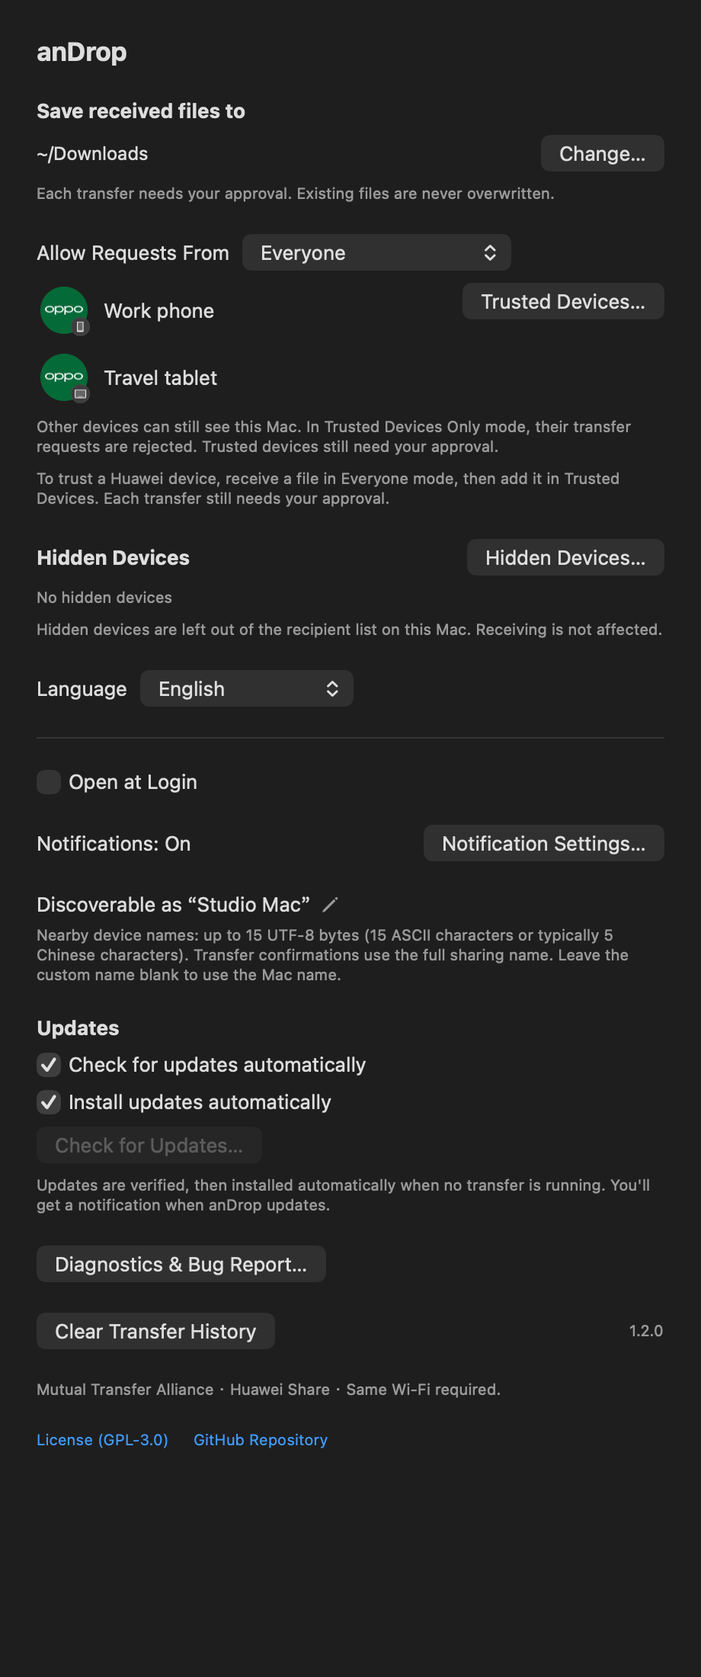
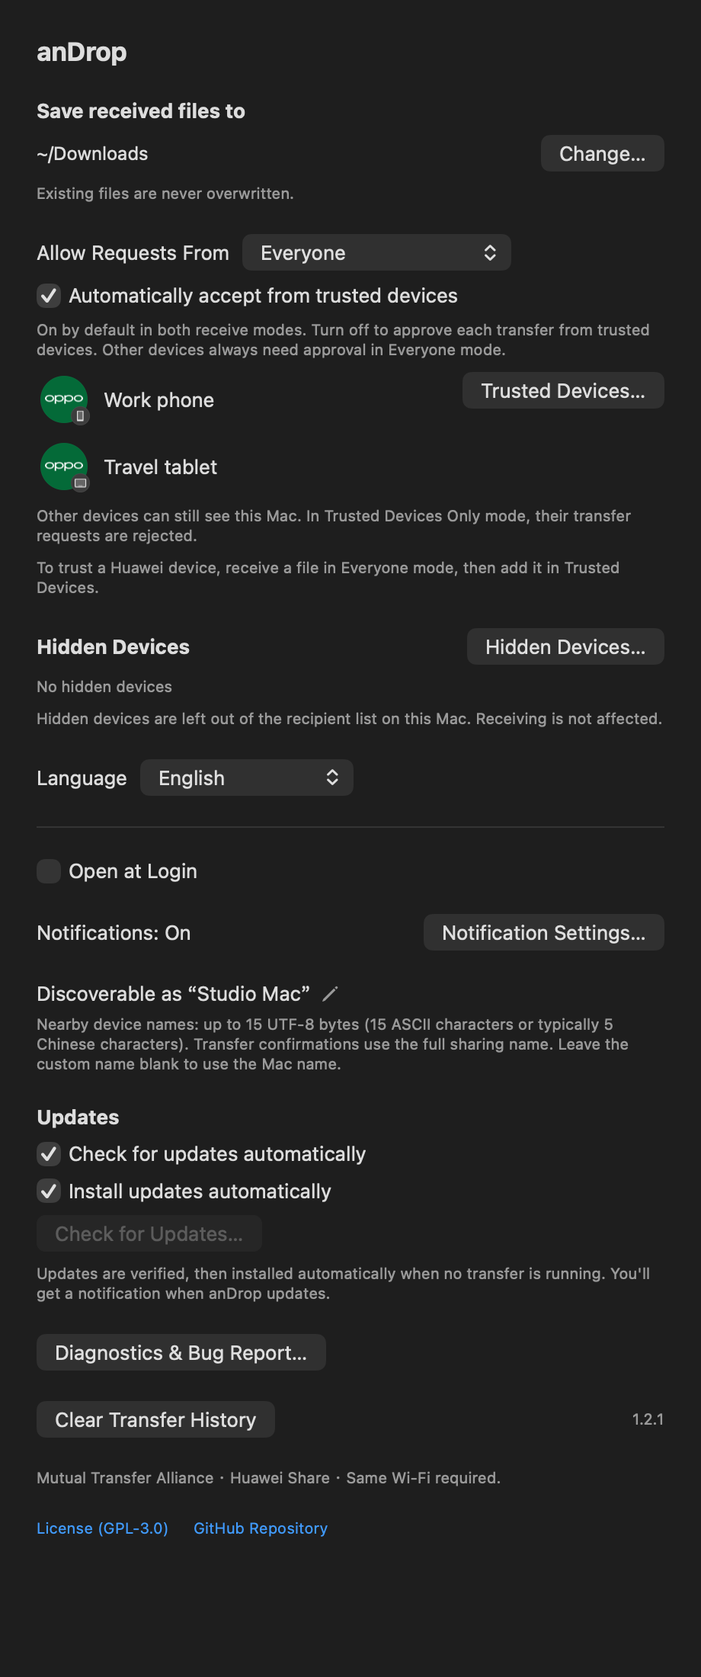
Release anDrop 1.2.1 with optional trusted-device auto acceptance

diff --git a/Sources/main.swift b/Sources/main.swift
@@ -91,6 +91,7 @@ final class AppModel: NSObject, ObservableObject, NSApplicationDelegate, @precon
 
     @Published private(set) var forgottenDeviceIdentifiers = Set(UserDefaults.standard.stringArray(forKey: "forgottenDeviceIdentifiers") ?? [])
     @Published private(set) var trustedOnly = UserDefaults.standard.bool(forKey: "trustedOnly")
+    @Published private(set) var autoAcceptTrusted = UserDefaults.standard.object(forKey: "autoAcceptTrusted") as? Bool ?? true
     @Published private(set) var trustedDevices: [RememberedDevice] = {
         guard let data = UserDefaults.standard.data(forKey: "trustedDevices") else { return [] }
         return (try? JSONDecoder().decode([RememberedDevice].self, from: data)) ?? []
@@ -276,6 +277,9 @@ final class AppModel: NSObject, ObservableObject, NSApplicationDelegate, @precon
     @objc func selectEveryone() { changeTrustedOnly(false) }
     func changeTrustedOnly(_ value: Bool) {
         trustedOnly = value; UserDefaults.standard.set(value, forKey: "trustedOnly"); configureEngine(); rebuildMenu()
+    }
+    func changeAutoAcceptTrusted(_ value: Bool) {
+        autoAcceptTrusted = value; UserDefaults.standard.set(value, forKey: "autoAcceptTrusted"); configureEngine()
     }
     var knownDevices: [RememberedDevice] {
         var seen = Set<String>()
@@ -564,7 +568,7 @@ final class AppModel: NSObject, ObservableObject, NSApplicationDelegate, @precon
         do { try input.write(contentsOf: bytes + Data([10])); return true }
         catch { self.error = L("Could not connect to the sharing service.", "无法连接到共享服务。"); return false }
     }
-    func configureEngine() { configuredName = sharingName; command(["command": "configure", "destination": destination, "name": configuredName, "language": appLanguage(), "trusted_only": trustedOnly, "trusted_ids": trustedDevices.map(\.id), "huawei_enabled": receiving]); command(["command": "enabled", "value": receiveSwitchIsOn]) }
+    func configureEngine() { configuredName = sharingName; command(["command": "configure", "destination": destination, "name": configuredName, "language": appLanguage(), "trusted_only": trustedOnly, "auto_accept_trusted": autoAcceptTrusted, "trusted_ids": trustedDevices.map(\.id), "huawei_enabled": receiving]); command(["command": "enabled", "value": receiveSwitchIsOn]) }
     private func consume(_ data: Data) {
         outputBuffer.append(data)
         if outputBuffer.count > 4_194_304 { outputBuffer.removeAll(); error = L("The sharing service returned an invalid response.", "共享服务返回了无效响应。"); return }
@@ -1302,12 +1306,15 @@ struct SettingsView: View {
                     HStack { Button(L("Accept", "接收")) { model.decide(incoming, accept: true) }; Button(L("Decline", "拒绝")) { model.decide(incoming, accept: false) } }
                 }
             }
-            VStack(alignment: .leading, spacing: 8) { Text(L("Save received files to", "接收文件保存位置")).font(.headline); HStack { Text(model.destination).font(.callout).lineLimit(1).truncationMode(.middle); Spacer(); Button(L("Change…", "更改…"), action: model.chooseDestination).disabled(model.busy) }; Text(L("Each transfer needs your approval. Existing files are never overwritten.", "每次接收都需确认。同名文件不会被覆盖。")).font(.caption).foregroundStyle(.secondary) }
+            VStack(alignment: .leading, spacing: 8) { Text(L("Save received files to", "接收文件保存位置")).font(.headline); HStack { Text(model.destination).font(.callout).lineLimit(1).truncationMode(.middle); Spacer(); Button(L("Change…", "更改…"), action: model.chooseDestination).disabled(model.busy) }; Text(L("Existing files are never overwritten.", "同名文件不会被覆盖。")).font(.caption).foregroundStyle(.secondary) }
             VStack(alignment: .leading, spacing: 8) {
                 Picker(L("Allow Requests From", "接收范围"), selection: Binding(get: { model.trustedOnly }, set: model.changeTrustedOnly)) {
                     Text(L("Trusted Devices Only", "仅限受信任的设备")).tag(true)
                     Text(L("Everyone", "所有人")).tag(false)
                 }
+                Toggle(L("Automatically accept from trusted devices", "自动接收受信任设备的文件"), isOn: Binding(get: { model.autoAcceptTrusted }, set: model.changeAutoAcceptTrusted))
+                Text(L("On by default in both receive modes. Turn off to approve each transfer from trusted devices. Other devices always need approval in Everyone mode.", "默认开启，适用于两种接收范围。关闭后，受信任设备的每次传输也需确认。在“所有人”模式下，其他设备始终需要确认。"))
+                    .font(.caption).foregroundStyle(.secondary)
                 HStack(alignment: .top, spacing: 12) {
                     VStack(alignment: .leading, spacing: 8) {
                         if model.trustedDevices.isEmpty {
@@ -1333,9 +1340,9 @@ struct SettingsView: View {
                     }.frame(maxWidth: .infinity, alignment: .leading)
                     Button(L("Trusted Devices…", "受信任的设备…")) { managingTrustedDevices = true }
                 }
-                Text(L("Other devices can still see this Mac. In Trusted Devices Only mode, their transfer requests are rejected. Trusted devices still need your approval.", "未受信任的设备仍可发现此 Mac；选择“仅限受信任的设备”后，其传输请求会被拒绝。受信任的设备每次传输仍需你确认。"))
+                Text(L("Other devices can still see this Mac. In Trusted Devices Only mode, their transfer requests are rejected.", "未受信任的设备仍可发现此 Mac；选择“仅限受信任的设备”后，其传输请求会被拒绝。"))
                     .font(.caption).foregroundStyle(.secondary).fixedSize(horizontal: false, vertical: true)
-                Text(L("To trust a Huawei device, receive a file in Everyone mode, then add it in Trusted Devices. Each transfer still needs your approval.", "添加华为设备前，请在“所有人”模式下接收一次文件，再到“受信任的设备”中添加。每次传输仍需你确认。"))
+                Text(L("To trust a Huawei device, receive a file in Everyone mode, then add it in Trusted Devices.", "添加华为设备前，请在“所有人”模式下接收一次文件，再到“受信任的设备”中添加。"))
                     .font(.caption).foregroundStyle(.secondary).fixedSize(horizontal: false, vertical: true)
             }
             VStack(alignment: .leading, spacing: 8) {

diff --git a/tests/ui/TrustedHuaweiTests.swift b/tests/ui/TrustedHuaweiTests.swift
@@ -8,6 +8,25 @@ extension AppModel {
             "peer": "Huawei test", "device_identifier": identity,
             "device_kind": "phone", "device_brand": "Huawei"]
         input = FileHandle.nullDevice
+        precondition(autoAcceptTrusted)
+        for scope in [false, true] {
+            changeTrustedOnly(scope)
+            for enabled in [false, true] {
+                let pipe = Pipe()
+                input = pipe.fileHandleForWriting
+                changeAutoAcceptTrusted(enabled)
+                let commands = String(decoding: pipe.fileHandleForReading.availableData, as: UTF8.self)
+                    .split(separator: "\n")
+                    .map { try! JSONSerialization.jsonObject(with: Data($0.utf8)) as! [String: Any] }
+                let configure = commands.first { $0["command"] as? String == "configure" }!
+                precondition(configure["auto_accept_trusted"] as? Bool == enabled)
+                precondition(configure["trusted_only"] as? Bool == scope)
+                precondition(AppModel().autoAcceptTrusted == enabled)
+                precondition(AppModel().trustedOnly == scope)
+                input = FileHandle.nullDevice
+            }
+        }
+        input = FileHandle.nullDevice
         var event = incoming
         event["state"] = "transferring"
         updateTransfer(event)

diff --git a/tests/test_receive_integration.py b/tests/test_receive_integration.py
@@ -13,7 +13,7 @@ from cryptography.hazmat.primitives.asymmetric import ec
 from engine import Engine,wire,parse_wire,sender_identifier,Keys
 
 class ReceiveIntegrationTests(unittest.IsolatedAsyncioTestCase):
-    async def transfer(self,*,trusted=False,sender='test-sender-unique-device',allowed=True,decision=True,revoked=False,disabled=False,files=None,malformed_count=False,udp_probes=True,cancel_midstream=False,replace_route=False,udp_conflict=False):
+    async def transfer(self,*,trusted=False,sender='test-sender-unique-device',allowed=True,decision=True,revoked=False,disabled=False,files=None,malformed_count=False,udp_probes=True,cancel_midstream=False,replace_route=False,udp_conflict=False,auto_accept=False):
         files=files or {'日本語.txt':b'synthetic file\n','empty.bin':b''}
         with tempfile.TemporaryDirectory() as folder:
             root=Path(folder);destination=root/'received';destination.mkdir()
@@ -25,6 +25,7 @@ class ReceiveIntegrationTests(unittest.IsolatedAsyncioTestCase):
             with zipfile.ZipFile(zipped,'w') as z:
                 for name,data in files.items():z.writestr(name,data)
             engine=Engine();engine.destination=str(destination);engine.trusted_only=trusted
+            engine.auto_accept_trusted=auto_accept
             engine.trusted_ids={sender_identifier('test-sender-unique-device')} if allowed else {sender_identifier('another-device-id')}
             session={'id':uuid.uuid4().hex,'direction':'receive','central':str(uuid.uuid4()).upper(),'count':len(files),'peer':'Same account name'};engine.session=session
             downloads=[];events=[];udp=socket.socket(socket.AF_INET,socket.SOCK_DGRAM);udp.bind(('127.0.0.1',0));udp.setblocking(False);udp_port=udp.getsockname()[1]
@@ -80,7 +81,8 @@ class ReceiveIntegrationTests(unittest.IsolatedAsyncioTestCase):
                         self.assertEqual(len(terminals),1,'Superseded connect attempt must not end the transfer')
                     else:
                         await asyncio.wait_for(engine.receive(session,'127.0.0.1',port,udp),8)
-                should_succeed=(not trusted or (allowed and sender=='test-sender-unique-device' and not revoked)) and decision and not disabled and not malformed_count
+                auto_approved=auto_accept and allowed and sender=='test-sender-unique-device'
+                should_succeed=(not trusted or (allowed and sender=='test-sender-unique-device' and not revoked)) and (auto_approved or decision) and not disabled and not malformed_count
                 if cancel_midstream:
                     self.assertEqual(session['state'],'cancelled')
                     self.assertEqual(list(destination.iterdir()),[])
@@ -105,6 +107,13 @@ class ReceiveIntegrationTests(unittest.IsolatedAsyncioTestCase):
     async def test_changed_protocol_id_does_not_inherit_trust(self):await self.transfer(trusted=True,sender='different-device-id')
     async def test_missing_protocol_id_does_not_inherit_trust(self):await self.transfer(trusted=True,sender=None)
     async def test_user_decline_never_downloads(self):await self.transfer(decision=False)
+    async def test_auto_accept_trusted_receives_files_without_prompt_in_both_scopes(self):
+        for trusted in (False,True):
+            events=await self.transfer(trusted=trusted,auto_accept=True,decision=False)
+            self.assertFalse(any(event.get('state')=='request' for event in events))
+    async def test_auto_accept_unknown_sender_in_everyone_still_requires_approval(self):
+        events=await self.transfer(allowed=False,auto_accept=True,decision=False)
+        self.assertTrue(any(event.get('state')=='request' for event in events))
     async def test_revocation_while_prompt_is_open_never_downloads(self):await self.transfer(trusted=True,revoked=True)
     async def test_disable_while_prompt_is_open_never_downloads(self):await self.transfer(disabled=True)
     async def test_invalid_file_count_never_downloads(self):await self.transfer(malformed_count=True)

diff --git a/tests/test_trusted_devices.py b/tests/test_trusted_devices.py
@@ -47,6 +47,7 @@ class TrustedDeviceTests(unittest.IsolatedAsyncioTestCase):
     async def test_rotated_trusted_sender_requires_user_approval(self):
         for decision in [True,False]:
             engine=Engine();engine.trusted_only=True;engine.trusted_ids={IDENTITY}
+            engine.auto_accept_trusted=False
             self.assertEqual(await self.approve(engine,decision=decision),decision)
             self.assertEqual(engine.session['device_identifier'],IDENTITY)
 
@@ -62,6 +63,7 @@ class TrustedDeviceTests(unittest.IsolatedAsyncioTestCase):
     async def test_revocation_and_disable_while_confirming_win_over_acceptance(self):
         for change in ['revoke','disable']:
             engine=Engine();engine.trusted_only=True;engine.trusted_ids={IDENTITY}
+            engine.auto_accept_trusted=False
             def mutate():
                 if change=='revoke':engine.trusted_ids.clear()
                 else:engine.scan_enabled=False
@@ -69,6 +71,39 @@ class TrustedDeviceTests(unittest.IsolatedAsyncioTestCase):
 
     async def test_everyone_still_requires_acceptance(self):
         for decision in [True,False]:self.assertEqual(await self.approve(Engine(),decision=decision),decision)
+
+    async def test_trusted_sender_is_automatically_accepted_by_default_in_both_scopes(self):
+        for trusted_only in (False, True):
+            engine=Engine();engine.trusted_only=trusted_only;engine.trusted_ids={IDENTITY}
+            with patch.object(engine,'update') as update:
+                self.assertTrue(await self.approve(engine,decision=False))
+            update.assert_not_called()
+            self.assertEqual(engine.decisions,{})
+
+    async def test_turning_auto_accept_off_requires_approval_in_both_scopes(self):
+        for trusted_only in (False, True):
+            for decision in (False, True):
+                engine=Engine();engine.trusted_only=trusted_only;engine.trusted_ids={IDENTITY}
+                engine.auto_accept_trusted=False
+                self.assertEqual(await self.approve(engine,decision=decision),decision)
+
+    async def test_auto_accept_does_not_bypass_disabled_receiving_or_removed_trust(self):
+        for trusted_only in (False, True):
+            engine=Engine();engine.trusted_only=trusted_only;engine.trusted_ids={IDENTITY}
+            engine.scan_enabled=False
+            self.assertFalse(await self.approve(engine))
+            engine.scan_enabled=True;engine.trusted_ids.clear()
+            self.assertFalse(await self.approve(engine,decision=False))
+
+    async def test_auto_accept_configuration_defaults_on_and_can_be_toggled(self):
+        engine=Engine()
+        with patch('engine.emit'):
+            for value in (None,False,True):
+                configuration={'command':'configure','trusted_ids':[IDENTITY]}
+                if value is not None:configuration['auto_accept_trusted']=value
+                await engine.command(configuration)
+                self.assertEqual(engine.auto_accept_trusted,value is not False)
+                self.assertEqual(await self.approve(engine,decision=False),value is not False)
 
     async def test_legacy_uuid_cannot_match_another_role_or_rotated_address(self):
         engine=Engine();engine.trusted_only=True;engine.trusted_ids={DEVICE}

diff --git a/tests/test_huawei_runtime.py b/tests/test_huawei_runtime.py
@@ -154,6 +154,7 @@ class ApprovalIntegration(unittest.IsolatedAsyncioTestCase):
         self.assertFalse(engine.may_negotiate('00000000-0000-0000-0000-00000000000B'))
     async def approval(self, accepted, *, trusted=False, revoke=False, identity=None, allowed=None, remove_trust=False):
         engine = Engine(); engine.trusted_only = trusted
+        engine.auto_accept_trusted = False
         engine.trusted_ids = set(allowed or [])
         session = {'id': 'test-session', 'central': '', 'direction': 'receive', 'protocol': 'huawei'}
         if identity: session['device_identifier'] = identity
@@ -181,6 +182,19 @@ class ApprovalIntegration(unittest.IsolatedAsyncioTestCase):
         self.assertFalse(await self.approval(False, trusted=True, identity=identity, allowed=[identity]))
         self.assertFalse(await self.approval(True, trusted=True, identity=identity, allowed=[identity], remove_trust=True))
         self.assertFalse(await self.approval(True, trusted=True, identity=identity, allowed=[identity], revoke=True))
+    async def test_trusted_huawei_key_auto_accepts_in_both_scopes(self):
+        identity = 'huawei-key:' + 'a' * 64
+        for trusted_only in (False, True):
+            for enabled in (False, True):
+                engine = Engine(); engine.trusted_only = trusted_only
+                engine.trusted_ids = {identity}; engine.huawei_enabled = enabled
+                session = {'id': 'auto-huawei', 'central': '', 'direction': 'receive',
+                           'protocol': 'huawei', 'device_identifier': identity}
+                with patch.object(engine, 'update') as update, patch('engine.emit'):
+                    accepted = await engine.huawei.approval(session, {'accepted_file_count': 1, 'accepted_total_bytes': 5})
+                self.assertEqual(accepted, enabled)
+                self.assertEqual(engine.decisions, {})
+                update.assert_not_called()
     async def test_unknown_changed_or_advertised_identity_never_prompts(self):
         identity = 'huawei-key:' + 'a' * 64
         for candidate in (None, 'huawei-key:' + 'b' * 64, 'huawei:advertisement',

diff --git a/Sources/engine.py b/Sources/engine.py
@@ -212,7 +212,7 @@ async def stream_archive(response,archive,progress):
 
 class Engine:
     def __init__(self):
-        self.trusted_only=False;self.trusted_ids=set()
+        self.trusted_only=False;self.trusted_ids=set();self.auto_accept_trusted=True
         self.destination=str(Path.home()/'Downloads');self.name='anDrop Mac';self.keys=Keys();self.session=None
         self.scanner=None;self.scan_token=None;self.devices={};self.peers={};self.decisions={};self.scan_enabled=True;self.discovering=False;self.jobs=set()
         self.outgoing={}
@@ -267,6 +267,10 @@ class Engine:
         if not enabled() or not self.may_receive(s['central'],identity):
             emit('diagnostic',detail='receive_untrusted_sender')
             return False
+        # Match the transfer identity, never the display name, discovery ID or
+        # legacy Bluetooth address. This applies independently of receive scope.
+        if self.auto_accept_trusted and identity and identity in self.trusted_ids:
+            return self.session is s
         future=asyncio.get_running_loop().create_future();self.decisions[s['id']]=future
         self.update(s,'request',count=s['count'],name=str(metadata.get('fileName',t('Files','文件')))[:240],total=int(metadata['totalSize']))
         try:accepted=await asyncio.wait_for(future,28)
@@ -678,6 +682,7 @@ class Engine:
             if command=='configure':
                 LANG=obj.get('language','en')
                 self.trusted_only=bool(obj.get('trusted_only',False))
+                self.auto_accept_trusted=bool(obj.get('auto_accept_trusted',True))
                 self.trusted_ids={identifier for value in obj.get('trusted_ids',[]) if (identifier:=valid_trust_identifier(value))}
                 self.destination=obj.get('destination',self.destination);self.name=obj.get('name',self.name);self.read_state()
                 self.huawei_enabled=bool(obj.get('huawei_enabled',self.scan_enabled))

diff --git a/tests/test_outgoing_selection.py b/tests/test_outgoing_selection.py
@@ -62,7 +62,7 @@ class OutgoingSelectionTests(unittest.TestCase):
                        'Diagnostics.swift', 'HuaweiLANDiscovery.swift', 'BrandLogos.swift']
             compiled = subprocess.run([
                 'swiftc', '-swift-version', '6', '-default-isolation', 'MainActor',
-                '-module-cache-path', str(ROOT / 'build/module-cache'),
+                '-module-cache-path', str(stage / 'module-cache'),
                 *[str(localization if name == 'Localization.swift' else ROOT / 'Sources' / name) for name in sources],
                 str(generated), '-o', str(executable),
             ], capture_output=True, text=True, timeout=180)

diff --git a/README.en.md b/README.en.md
@@ -10,9 +10,9 @@ anDrop is a macOS menu bar app that officially supports the **互传联盟 (Mutu
 
 **[Download anDrop](https://github.com/TakeruF/androp/releases/latest)** · [Usage and troubleshooting](docs/usage.en.md) · [Compatibility](docs/compatibility.en.md)
 
-**1.2.0: official Huawei Share support is the headline feature.** Send and receive files between your Mac and a device's built-in Huawei Share. 鸿蒙星河互联 coexistence remains experimental. Tested models and transfer limits are listed below.
+**1.2.1: automatically accept files from trusted devices.** Enabled by default in both receive modes, with a Settings switch to require approval for each transfer. See the [1.2.1 release notes](docs/releases/1.2.1.en.md).
 
-Version 1.2.0 provides a DMG for **Apple Silicon Macs running macOS 14 or later**. OPPO Find X9 Pro and OPPO Pad 4 Pro have both undergone physical testing across multiple scenarios, including transfers in both directions. Huawei Share has also passed bidirectional transfer testing on **Huawei Pura 70 running HarmonyOS 7 (鸿蒙 7)**. Other brands and models remain untested. Build checks enforce the minimum OS for bundled binaries, but macOS 14 has not been tested on a physical Mac. Mock images do not establish compatibility with every brand shown.
+Version 1.2.1 provides a DMG for **Apple Silicon Macs running macOS 14 or later**. OPPO Find X9 Pro and OPPO Pad 4 Pro have both undergone physical testing across multiple scenarios, including transfers in both directions. Huawei Share has also passed bidirectional transfer testing on **Huawei Pura 70 running HarmonyOS 7 (鸿蒙 7)**. Other brands and models remain untested. Build checks enforce the minimum OS for bundled binaries, but macOS 14 has not been tested on a physical Mac. Mock images do not establish compatibility with every brand shown.
 
 **1.2.0** adds official Huawei Share support, concurrent sends to different devices, recipient renaming/hiding from the context menu, and automatic update installation with notifications. It also improves photo receipt and trusted-device management. See the [release notes](docs/releases/1.2.0.en.md) and [test record](docs/testing.en.md). When upgrading from 1.0.0, re-enroll old trusted-device entries after successfully receiving a file; see the [1.1.0 upgrade notes](docs/releases/1.1.0.en.md).
 
@@ -47,7 +47,7 @@ Before sending, Cancel dismisses the picker. Each recipient has independent prog
 ### Phone or tablet → Mac
 
 1. Select files on the device, open its built-in compatible sharing feature and choose the Mac.
-2. Accept in anDrop’s notification or menu bar. **Every incoming transfer requires approval.**
+2. Accept in anDrop’s notification or menu bar. **Trusted devices are accepted automatically by default; this can be turned off in Settings.**
 3. Files go directly into **Downloads** by default. Duplicate names receive a numeric suffix; existing files are never overwritten and received files are not opened automatically.
 
 Sends to different devices can run concurrently. Receiving remains exclusive. Compress folders first. Send files with identical base names in separate transfers.
@@ -65,7 +65,7 @@ Change the destination folder, sharing name, language, Open at Login, receiving 
 
 ## Receive scope and trusted devices
 
-Choose **Trusted Devices Only** or **Everyone** in the menu bar or Settings. Both modes require approval for every incoming transfer.
+Choose **Trusted Devices Only** or **Everyone** in the menu bar or Settings. **Automatically accept from trusted devices** is on by default in both modes. Turn it off in Settings to approve each transfer. Untrusted devices always require approval in Everyone mode.
 
 **This differs from AirDrop Contacts Only: untrusted devices may still see this Mac. Trusted Devices Only rejects their transfer requests; it does not hide anDrop.** See [discovery limits and receive filtering](docs/trusted-discovery.en.md).
 
@@ -73,7 +73,7 @@ In Settings → **Trusted Devices…**, add devices from successful incoming tra
 
 <img src="docs/images/trusted-en.png" alt="Mock trusted-device management with manufacturer artwork and add, remove and forget controls" width="600">
 
-The filter stores a hash of the protocol sender ID, so rotating Bluetooth addresses do not remove trust. Names and accounts do not authorize receipt. This is a self-reported ID, not cryptographic pairing or authenticated identity. After the control connection supplies the ID, unlisted senders are rejected before approval and before downloading files. Listed senders still require approval. Removing trust does not interrupt an already accepted transfer. Old UUID-only entries require one incoming transfer in Everyone mode and enrollment of the new record; matching a display name is not a safe migration.
+The filter stores a hash of the protocol sender ID, so rotating Bluetooth addresses do not remove trust. Names and accounts do not authorize receipt. This is a self-reported ID, not cryptographic pairing or authenticated identity. After the control connection supplies the ID, unlisted senders are rejected before approval and before downloading files. Listed senders are accepted automatically when the setting is on; otherwise they require approval. Removing trust does not interrupt an already accepted transfer. Old UUID-only entries require one incoming transfer in Everyone mode and enrollment of the new record; matching a display name is not a safe migration.
 
 Huawei devices can also be added: after updating, receive a file in Everyone mode, then add the device here. Huawei records use a SHA-256 fingerprint of the transfer public key, with proof of possession during each receive handshake. Names, IP addresses and discovery advertisements do not authorize receipt. This is local enrollment, not Huawei account pairing. If the key changes, receive and enroll again. Older Huawei history has no key and cannot be migrated automatically.
 
@@ -113,7 +113,7 @@ The Mutual Transfer Alliance is a cross-brand ecosystem used by Xiaomi, HONOR, O
 | OPPO Pad 4 Pro | Physically tested across multiple scenarios, including discovery, tablet identification and same-Wi-Fi transfers in both directions. |
 | HONOR | Models supporting both Huawei Share and Android mutual transfer (安卓互传) are a priority for upcoming physical validation. We plan to test discovery and bidirectional file transfers separately through both sharing methods. Availability depends on model and OS version; physical testing remains outstanding. |
 | Xiaomi, vivo and other brands/models | Compatible devices in the target ecosystem; not physically tested yet. |
-| Apple Silicon Mac, macOS 27.0.1 | Tested development environment. Release targets macOS 14+. Physical macOS 14 and Intel testing remain outstanding; no Intel installer is provided in 1.2.0. |
+| Apple Silicon Mac, macOS 27.0.1 | Tested development environment. Release targets macOS 14+. Physical macOS 14 and Intel testing remain outstanding; no Intel installer is provided in 1.2.1. |
 | 鸿蒙星河互联 coexistence | Experimental. We recommend finishing any 鸿蒙星河互联 transfers and quitting it, then using anDrop for file sharing to avoid discovery or transfer conflicts. |
 | Huawei Share | **Officially supported by anDrop on the same LAN. Test device: Huawei Pura 70 running HarmonyOS 7 (鸿蒙 7).** Three-file app transfers in both directions, Downloads receipt, duplicate-name receipt, and content verification passed. The phone is found while its screen is on, without opening its share sheet. The first transfer needs “Everyone” on the phone; afterwards “Devices shared with” also works. Transfers can be retried right after a cancel or dropped connection. The latest full build passed bidirectional transfers with empty files, Japanese names and 8 MiB, including Downloads receipt and duplicate-name handling. Phone identity authentication, screen-off discovery, and Wi-Fi loss recovery remain under validation. See the [research record](docs/huawei-share-research.en.md). |
 | Wi-Fi Direct, Google Quick Share | Not implemented. |

diff --git a/README.md b/README.md
@@ -10,9 +10,9 @@ anDrop 是一个常驻 macOS 菜单栏的文件共享应用，正式支持 **互
 
 **[下载 anDrop](https://github.com/TakeruF/androp/releases/latest)** · [使用与排查](docs/usage.md) · [兼容性记录](docs/compatibility.md)
 
-**1.2.0：华为分享正式支持是本次更新的主打功能。** 可通过设备自带的华为分享与 Mac 双向收发文件；与鸿蒙星河互联同时运行仍属实验性支持。具体机型验证范围与传输限制见下方说明。
+**1.2.1：自动接收受信任设备的文件。** 两种接收范围下均默认开启，可在设置中关闭，改为每次确认。详见 [1.2.1 更新说明](docs/releases/1.2.1.md)。
 
-1.2.0 提供适用于 **Apple Silicon Mac、macOS 14 及以上**的 DMG 安装包。OPPO Find X9 Pro 和 OPPO Pad 4 Pro 均已进行包括双向传输在内的多场景实机测试；华为分享已在 **华为 Pura 70（鸿蒙 7）** 上完成双向传输验证。其他品牌和机型尚未实机验证。构建检查已确认随应用打包的二进制不要求高于 macOS 14 的版本，但尚未在 macOS 14 实机测试。下方图片均使用虚构数据，不代表其中所有品牌都已通过兼容性测试。
+1.2.1 提供适用于 **Apple Silicon Mac、macOS 14 及以上**的 DMG 安装包。OPPO Find X9 Pro 和 OPPO Pad 4 Pro 均已进行包括双向传输在内的多场景实机测试；华为分享已在 **华为 Pura 70（鸿蒙 7）** 上完成双向传输验证。其他品牌和机型尚未实机验证。构建检查已确认随应用打包的二进制不要求高于 macOS 14 的版本，但尚未在 macOS 14 实机测试。下方图片均使用虚构数据，不代表其中所有品牌都已通过兼容性测试。
 
 **1.2.0** 新增华为分享正式支持、向多台设备分别发送同一批文件、右键重命名／隐藏候选设备，以及自动安装更新与通知。照片接收兼容性与受信任设备管理同步改进。详见[更新说明](docs/releases/1.2.0.md)和[测试记录](docs/testing.md)。从 1.0.0 升级时，旧版信任记录需成功接收一次文件后重新添加，参见 [1.1.0 升级说明](docs/releases/1.1.0.md)。
 
@@ -47,7 +47,7 @@ anDrop 是一个常驻 macOS 菜单栏的文件共享应用，正式支持 **互
 ### 手机／平板 → Mac
 
 1. 在设备中选中文件，打开自带的兼容互传功能，选择 Mac。
-2. 在 anDrop 的通知或菜单栏中确认接收。**每次接收都需要确认。**
+2. 在 anDrop 的通知或菜单栏中确认接收。**受信任设备默认自动接收，可在设置中关闭。**
 3. 文件直接保存在 Mac 的“下载”文件夹中。同名文件会添加序号，不会覆盖已有文件，也不会自动打开。
 
 可同时向不同设备发送；接收时不同时进行其他传输。文件夹请先压缩；同一批中具有相同文件名的文件请分开发送。
@@ -65,7 +65,7 @@ anDrop 是一个常驻 macOS 菜单栏的文件共享应用，正式支持 **互
 
 ## 接收范围与受信任的设备
 
-菜单栏和设置均可选择 **仅限受信任的设备（Trusted Devices Only）** 或 **所有人（Everyone）**。两种模式下，每次接收都需要确认，不会自动接收文件。
+菜单栏和设置均可选择 **仅限受信任的设备（Trusted Devices Only）** 或 **所有人（Everyone）**。两种模式下，**自动接收受信任设备的文件**均默认开启；可在设置中关闭，改为每次确认。在“所有人”模式下，未受信任的设备始终需要确认。
 
 **这与 AirDrop 的“仅限联系人”不同：未受信任的设备仍可能看到此 Mac；“仅限受信任的设备”会拒绝它们的传输请求，不会向它们隐藏 anDrop。** 详见[发现限制与接收过滤](docs/trusted-discovery.md)。
 
@@ -73,7 +73,7 @@ anDrop 是一个常驻 macOS 菜单栏的文件共享应用，正式支持 **互
 
 <img src="docs/images/trusted-zh.png" alt="模拟受信任设备管理界面：显示带厂商标志的历史设备，可添加、移除或忘记设备" width="600">
 
-此功能保存协议发送者 ID 的摘要，蓝牙地址轮换不会影响已登记的 ID。它不按账号或名称判断，也不是加密配对或经认证的设备身份。控制连接取得 ID 后，未登记设备会在显示接收确认和下载文件前被拒绝。已登记设备每次仍需确认；移除信任不会中断已经接受的传输。旧版 UUID 记录需在“所有人”模式下重新接收一次文件，再添加新记录；无法安全地仅凭同名自动迁移。
+此功能保存协议发送者 ID 的摘要，蓝牙地址轮换不会影响已登记的 ID。它不按账号或名称判断，也不是加密配对或经认证的设备身份。控制连接取得 ID 后，未登记设备会在显示接收确认和下载文件前被拒绝。已登记设备在自动接收开启时无需确认，关闭后每次仍需确认；移除信任不会中断已经接受的传输。旧版 UUID 记录需在“所有人”模式下重新接收一次文件，再添加新记录；无法安全地仅凭同名自动迁移。
 
 华为设备也可添加：更新后先在“所有人”模式下接收一次文件，再到此列表添加。华为记录保存传输公钥的 SHA-256 摘要，并在每次接收时检查对方持有对应的私钥；不按名称、IP 或发现广播识别。这是本机信任登记，不是华为账号配对。公钥变化后需重新接收并添加；旧的华为接收记录不含公钥，无法自动迁移。
 
@@ -113,7 +113,7 @@ anDrop 是一个常驻 macOS 菜单栏的文件共享应用，正式支持 **互
 | OPPO Pad 4 Pro | 已进行包括设备发现、平板类型显示及同一 Wi-Fi 下双向传输在内的多场景实机测试。 |
 | 荣耀 | 支持华为分享与安卓互传的荣耀机型是下一步实机确认与验证的重点，计划分别测试两种分享方式的设备发现与双向文件传输。具体支持情况取决于机型和系统版本，尚未实机验证。 |
 | 小米、vivo 等其他品牌／机型 | 目标生态中的兼容设备，尚未实机验证。 |
-| Apple Silicon Mac，macOS 27.0.1 | 已验证的开发环境；发行包面向 macOS 14 及以上。macOS 14 实机、Intel 均未验证，1.2.0 不提供 Intel 安装包。 |
+| Apple Silicon Mac，macOS 27.0.1 | 已验证的开发环境；发行包面向 macOS 14 及以上。macOS 14 实机、Intel 均未验证，1.2.1 不提供 Intel 安装包。 |
 | 鸿蒙星河互联共存 | 实验性支持；建议完成该应用中的传输后退出，改用 anDrop 收发文件，避免发现或传输冲突。 |
 | 华为分享 | **anDrop 已正式支持同一局域网内的华为分享。测试设备：华为 Pura 70，鸿蒙 7。** 已通过本体双向 3 文件传输、Downloads 保存、同名再接收及内容一致验证。手机亮屏时无需打开分享页即可发现；首次传输需手机选择“所有人可见”，之后“仅分享过的设备可见”也可发送；传输中取消或断开后可直接重传。最新完整构建已通过含空文件、日文名及 8 MiB 的双向传输、Downloads 保存和同名再接收验证。手机身份认证、息屏发现及 Wi-Fi 断开恢复仍待验证。见[调查记录](docs/huawei-share-research.md)。 |
 | Wi-Fi Direct、Google Quick Share | 尚未实现。 |

diff --git a/docs/usage.en.md b/docs/usage.en.md
@@ -76,13 +76,13 @@ The name is centered below the avatar and wraps to at most two lines. The popup 
 
 ## Receive scope and trusted devices
 
-Choose **Trusted Devices Only** or **Everyone** in the menu bar or Settings. Every transfer still requires approval in both modes; trusting a device never enables automatic acceptance.
+Choose **Trusted Devices Only** or **Everyone** in the menu bar or Settings. **Automatically accept from trusted devices** defaults to on in both modes. Turn it off in Settings to approve every transfer from trusted devices. Untrusted devices always need approval in Everyone mode.
 
-**Visibility is different from AirDrop Contacts Only.** Other devices can still see this Mac in their sharing picker. **Trusted Devices Only rejects transfer requests from devices that are not in the trusted list; it does not hide anDrop from them.** Trusted devices still require approval. AirDrop Contacts Only performs contact matching before responding during discovery ([Apple Platform Security](https://support.apple.com/guide/security/airdrop-security-sec2261183f4/web)); anDrop’s current alliance discovery uses a public Bluetooth advertisement. See [discovery limits and receive filtering](trusted-discovery.en.md).
+**Visibility is different from AirDrop Contacts Only.** Other devices can still see this Mac in their sharing picker. **Trusted Devices Only rejects transfer requests from devices that are not in the trusted list; it does not hide anDrop from them.** AirDrop Contacts Only performs contact matching before responding during discovery ([Apple Platform Security](https://support.apple.com/guide/security/airdrop-security-sec2261183f4/web)); anDrop’s current alliance discovery uses a public Bluetooth advertisement. See [discovery limits and receive filtering](trusted-discovery.en.md).
 
 Open Settings → **Trusted Devices…** to add devices from previous transfers even when they are offline. New devices need one transfer in Everyone mode first. Device rows use manufacturer artwork with a phone/tablet badge. Verify the requesting device yourself. Different local identifier suffixes distinguish devices with identical names. Remove trust or forget a remembered device at any time.
 
-Alliance devices use a hash of the self-reported protocol sender ID. Huawei devices use a SHA-256 fingerprint of the transfer public key, checked after the peer proves possession of its private key. Neither uses account names, device names or IP addresses for authorization. To enroll Huawei after updating, receive a file in Everyone mode and add its new record; older Huawei history has no key and cannot be migrated. Receive and enroll again if the key or identifier changes. Nearby advertisements remain visible. Trusted-only mode rejects unlisted requests before showing approval or downloading files. Every accepted transfer still requires approval. Removing trust does not interrupt an already-started transfer.
+Alliance devices use a hash of the self-reported protocol sender ID. Huawei devices use a SHA-256 fingerprint of the transfer public key, checked after the peer proves possession of its private key. Neither uses account names, device names or IP addresses for authorization. To enroll Huawei after updating, receive a file in Everyone mode and add its new record; older Huawei history has no key and cannot be migrated. Receive and enroll again if the key or identifier changes. Nearby advertisements remain visible. Trusted-only mode rejects unlisted requests before showing approval or downloading files. Enrolled devices are accepted automatically when the setting is on; otherwise each transfer requires approval. Removing trust does not interrupt an already-started transfer.
 
 Mac → Huawei sends allow up to 16 files, 4 GiB each and 16 GiB total. Local large-file verification does not establish GiB-scale physical receipt. Huawei receiving currently accepts up to 16 files and 16 MiB total, including a single file up to 16 MiB. This receive limit is separate from the larger outgoing-file limits.
 

diff --git a/docs/architecture.en.md b/docs/architecture.en.md
@@ -29,7 +29,7 @@ There is no runtime import of mtapy; [NOTICE.md](../NOTICE.en.md) records the ea
 
 The host persists a user-managed list of CoreBluetooth central UUIDs separately from display aliases. The host gates GATT status reads and whole write batches before responding with application state or buffering data. Unlisted subscriptions receive no application notification; queued notifications are rechecked at delivery and are never broadcast using a nil subscriber list. The engine independently filters ready notifications and checks the UUID before deriving an incoming session key, and rechecks both the filter and enabled state after the acceptance prompt resolves. It never grants trust from a name or advertised ID. No file is downloaded before approval. Active transfers continue when trust is removed.
 
-Trust candidates come from completed incoming transfers and require explicit enrollment. Alliance records use `sender:` plus SHA-256 of the self-reported protocol sender ID; these are not authenticated credentials. Huawei records use `huawei-key:` plus SHA-256 of the canonical DER RSA public key, supplied to the runtime only after a valid AES-GCM offer proves possession of the private key. Raw Huawei keys never enter probe evidence. Discovery IDs, names, IP addresses and account names do not establish trust. Huawei key continuity is local enrollment, not vendor/account authentication. Changed keys or sender IDs require a new Everyone-mode receipt and enrollment; older Huawei history has no key and cannot be migrated. Records remain available offline. Only Alliance sender IDs allow GATT metadata negotiation; Huawei keys do not open that path. Both protocols reject unlisted identities before prompting or receiving file data, recheck permission after approval, and retain explicit approval for every transfer. Already accepted transfers can finish after trust removal. Discovery remains public; see [trusted receiving versus discovery](trusted-discovery.en.md).
+Trust candidates come from completed incoming transfers and require explicit enrollment. Alliance records use `sender:` plus SHA-256 of the self-reported protocol sender ID; these are not authenticated credentials. Huawei records use `huawei-key:` plus SHA-256 of the canonical DER RSA public key, supplied to the runtime only after a valid AES-GCM offer proves possession of the private key. Raw Huawei keys never enter probe evidence. Discovery IDs, names, IP addresses and account names do not establish trust. Huawei key continuity is local enrollment, not vendor/account authentication. Changed keys or sender IDs require a new Everyone-mode receipt and enrollment; older Huawei history has no key and cannot be migrated. Records remain available offline. Only Alliance sender IDs allow GATT metadata negotiation; Huawei keys do not open that path. In trusted-only mode, both protocols reject unlisted identities before prompting or receiving file data. Automatically accepting enrolled transfer identities defaults to on in both receive modes and can be disabled in Settings. Manual approvals recheck permission after the prompt resolves. Unlisted identities in Everyone mode always require manual approval. Already accepted transfers can finish after trust removal. Discovery remains public; see [trusted receiving versus discovery](trusted-discovery.en.md).
 
 Receiving is enabled while the host is running and Bluetooth and Wi-Fi are available. There is no persisted on/off preference. Quitting stops advertising and terminates the engine. Bluetooth/Wi-Fi unavailability disables new receive requests and stops advertising.
 
